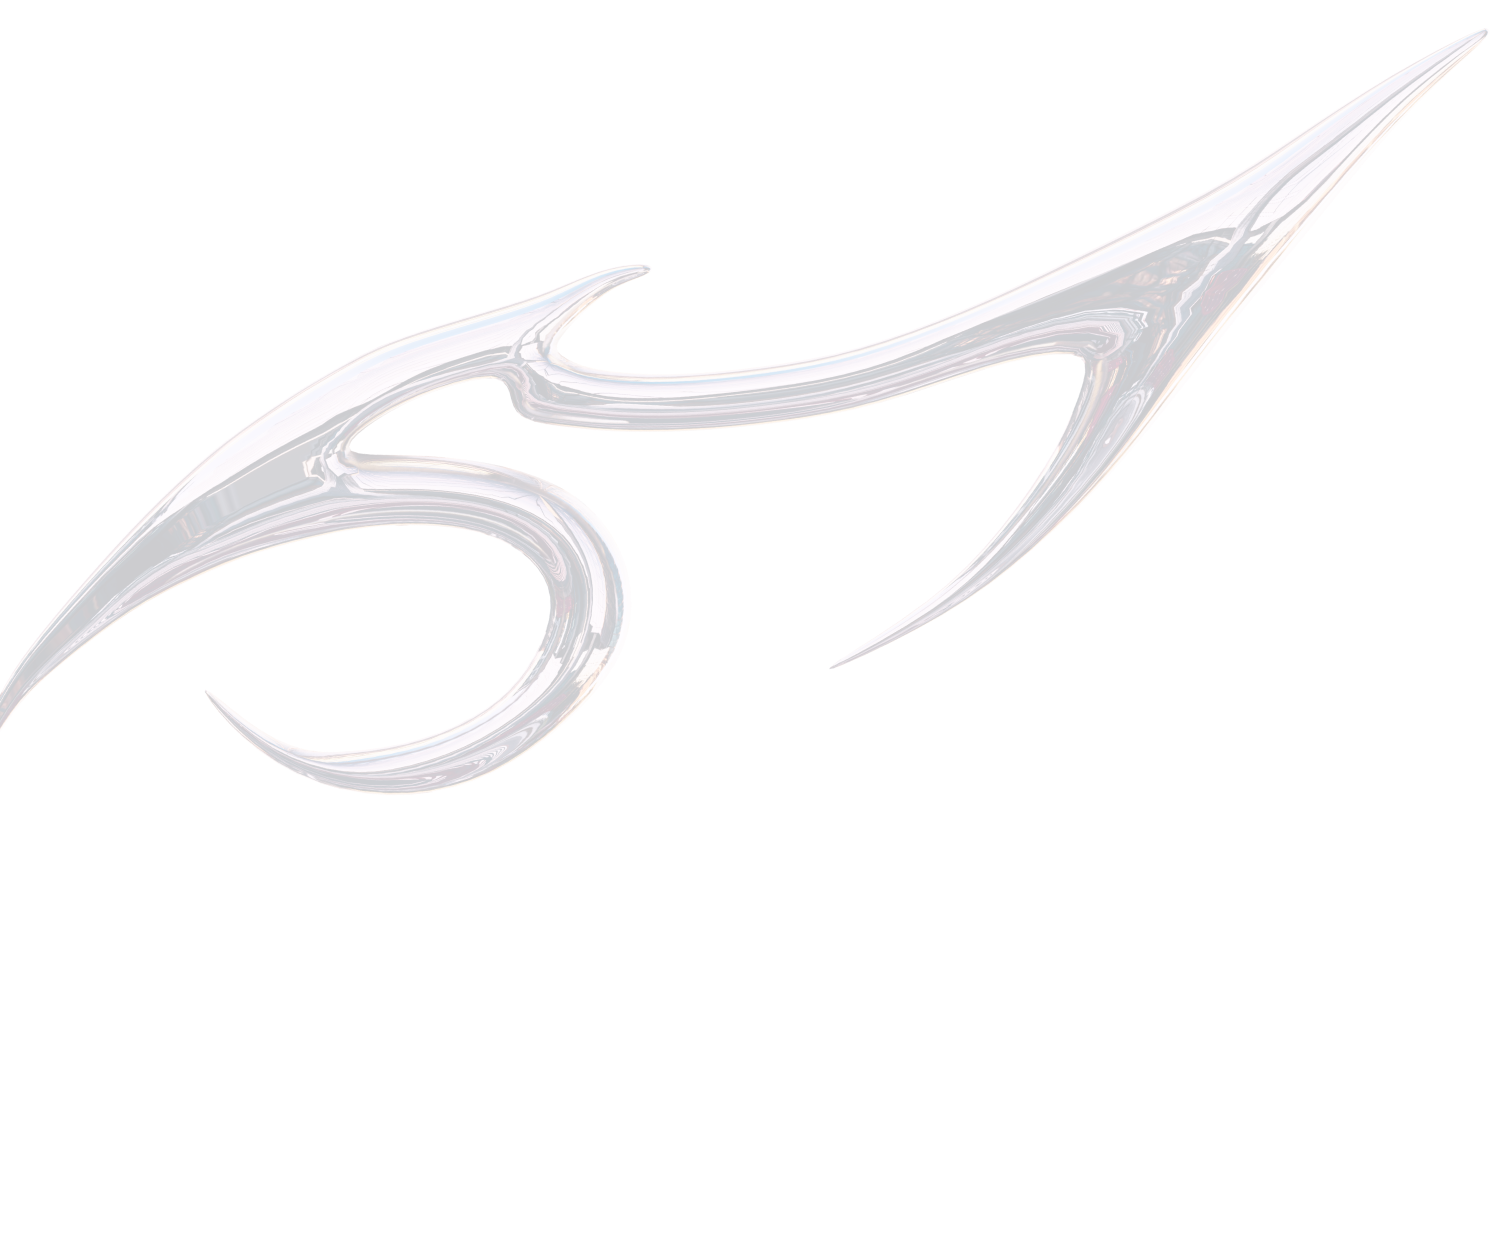
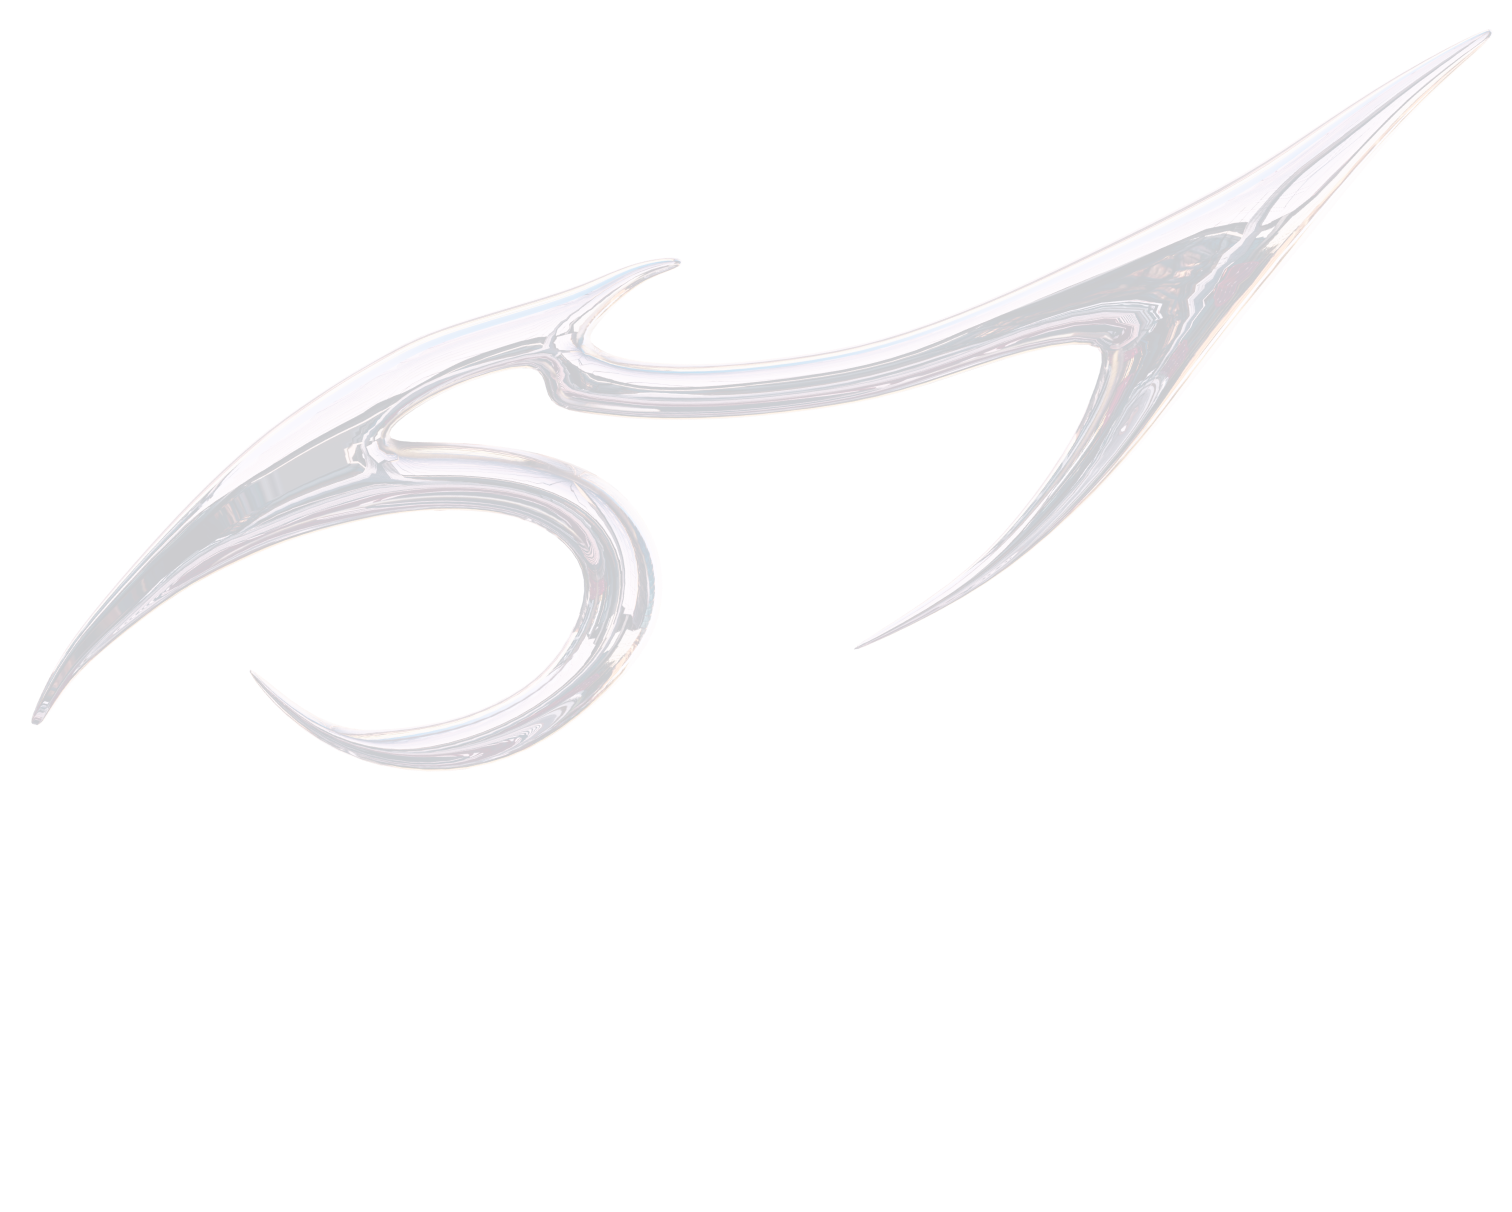
add animations

Changed region(s): [[0.0, 0.0305, 0.9636, 0.6106], [0.1554, 0.3663, 0.4352, 0.6411], [0.5595, 0.519, 0.5906, 0.5495]]

diff --git a/script.js b/script.js
@@ -1,0 +1,14 @@
+// Animations
+
+const bottom_img = document.querySelector(".hero_bottom_img");
+const arrow = document.querySelector(".arrow");
+
+window.addEventListener("scroll", () => {
+      const offset = window.scrollY * -1.2; // можна змінити коефіцієнт
+      bottom_img.style.transform = `translateX(${offset}px) translateY(-2px)`;
+});
+
+arrow.addEventListener("click", () => {
+      const target = document.querySelector("#aboutMe");
+      target.scrollIntoView({ behavior: "smooth" });
+});

diff --git a/styles.css b/styles.css
@@ -35,7 +35,7 @@ a {
 .hero_img {
       position: absolute;
       width: 100%;
-      max-width: 1600px;
+      max-width: 1465px;
       top: 0%;
       left: 50%;
 
@@ -48,6 +48,7 @@ a {
 header {
       margin-bottom: 200px;
 }
+
 .header_list {
       list-style-type: none;
 
@@ -134,9 +135,11 @@ h1 {
 .hero_bottom_img {
       width: 300%;
 
-      transform: translate(0px, -2px);
+      transform: translateY(-2px);
 
       margin-bottom: 60px;
+
+      transition: transform 0.2s ease-out;
 }
 
 /* ABOUT */
